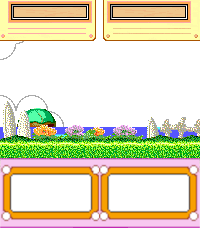
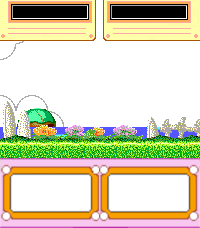
Background image tweaks, kirby position tweaks

diff --git a/src/main_large.h b/src/main_large.h
@@ -33,7 +33,7 @@ static const GPoint KIRBY_ABILITIES_ORIGINS[] =
   {27, 110},  // Cutter
   {26, 101},  // Fire
   {0, 73},  // Hammer
-  {19, 110},  // Mike
+  {20, 110},  // Mike
   {22, 83},  // Sleep
   {9, 81},  // Sword
 };
